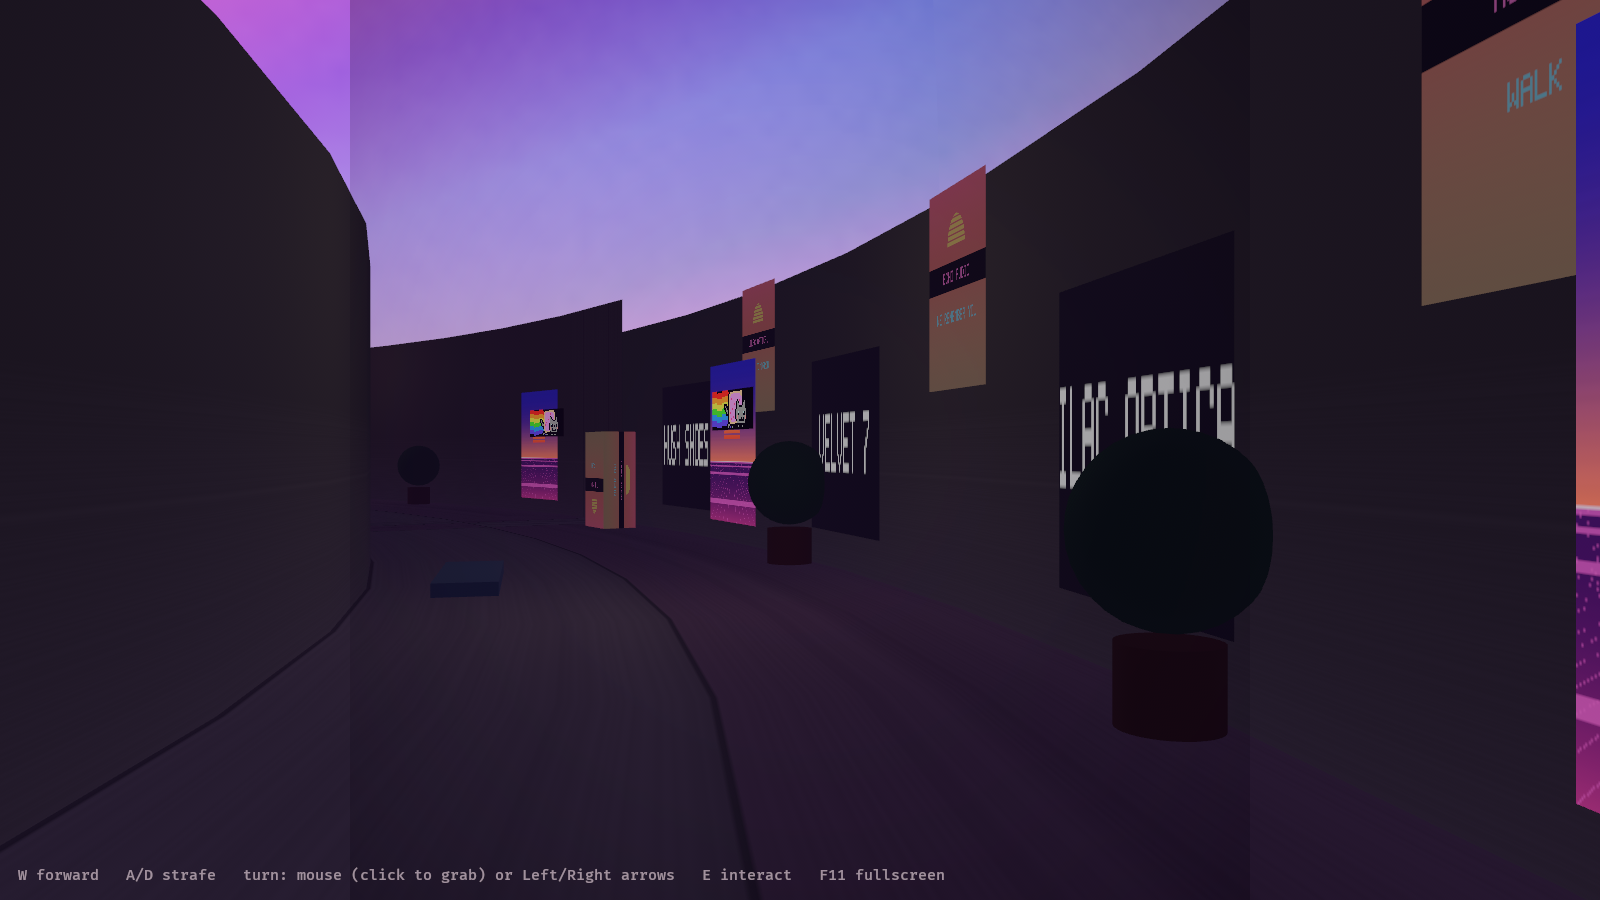
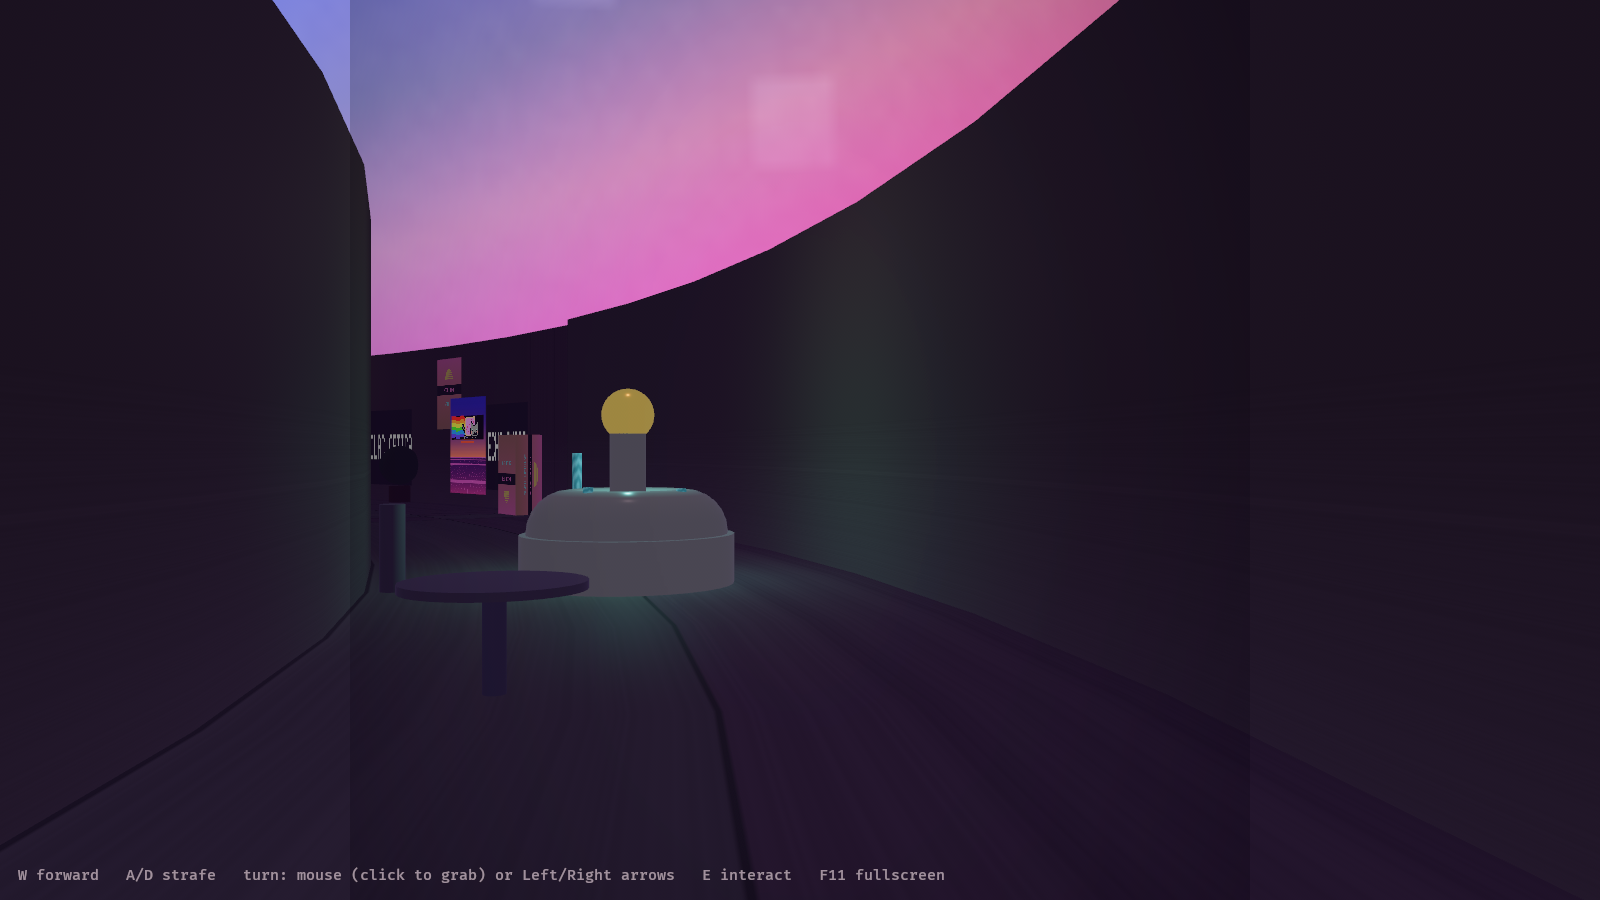
vignette: aspect-corrected so iso-darkness contours are circles on screen
Circular gradient texture stretched onto a 16:9 UI node produced
elliptical arcs that read as a panel edge floating in the FOV.
vignette(aspect) now generates in the node's screen metric, and
vignette_fit regenerates it on window resize. Retake all three
screenshots at 1600x900 via headless shot mode.

Changed region(s): [[0.125, 0.0, 0.7812, 0.6844], [0.875, 0.0, 1.0, 0.9022], [0.6562, 0.4044, 0.7812, 0.56]]

diff --git a/src/texturegen.rs b/src/texturegen.rs
@@ -414,23 +414,24 @@ pub fn nyancat() -> Rgba {
 }
 
 // ---- radial vignette: gentle darkening over the WHOLE frame ----
-// an inner fully-transparent plateau made the clear/dark boundary read as a
-// soft square floating in the FOV; instead ramp smoothly from a faint
-// center tint to a moderate corner darkening, normalized so corners hit max
-pub fn vignette() -> Rgba {
+// aspect-corrected so iso-darkness contours are CIRCLES on screen: a
+// circular texture stretched onto a 16:9 node produces elliptical arcs
+// that read as a panel edge floating in the FOV. ramp: 0% at center,
+// ~17% at edge midpoints, ~41% at corners (alpha = a * 110), no plateau.
+pub fn vignette(aspect: f32) -> Rgba {
     let w = 256u32;
     let h = 256u32;
     let mut b = new_buf(w, h, [0, 0, 0, 0]);
-    let max_d = (2.0f32).sqrt();
+    let a = aspect.max(0.01);
+    // corner distance in this metric, so corners always land on ramp max
+    let max_d = (a * a + 1.0).sqrt();
     for y in 0..h {
         for x in 0..w {
-            let dx = (x as f32 - w as f32 / 2.0) / (w as f32 / 2.0);
+            let dx = (x as f32 - w as f32 / 2.0) / (w as f32 / 2.0) * a;
             let dy = (y as f32 - h as f32 / 2.0) / (h as f32 / 2.0);
             let d = ((dx * dx + dy * dy).sqrt() / max_d).min(1.0);
-            // smooth full-frame ramp: 0% at center, ~19% at edge midpoints,
-            // ~43% at corners (alpha = a * 110)
-            let a = d * d * (0.55 + 0.45 * d);
-            put(&mut b, w, x, y, [10, 4, 18, (a * 110.0) as u8]);
+            let t = d * d * (0.55 + 0.45 * d);
+            put(&mut b, w, x, y, [10, 4, 18, (t * 110.0) as u8]);
         }
     }
     b
@@ -577,7 +578,7 @@ mod tests {
         assert_eq!(sign_tex(1, "MOON MART").len(), 256 * 64 * 4);
         assert_eq!(brick(1).len(), 256 * 256 * 4);
         assert_eq!(nyancat().len(), 120 * 40 * 4);
-        assert_eq!(vignette().len(), 256 * 256 * 4);
+        assert_eq!(vignette(16.0 / 9.0).len(), 256 * 256 * 4);
         assert_eq!(water(1).len(), 128 * 128 * 4);
     }
 
@@ -612,6 +613,23 @@ mod tests {
             top += lum(x, 0);
         }
         assert!(bot > top * 4, "vortex {bot} vs zenith {top}");
+    }
+
+    #[test]
+    fn vignette_circular_on_screen() {
+        // stretched to a 1600x900 window, two texels whose screen-space
+        // offsets from center have equal pixel distance must share alpha;
+        // iso-alpha ellipses are what read as a floating panel edge
+        let b = vignette(16.0 / 9.0);
+        let a = |x: u32, y: u32| -> i32 {
+            b[((y * 256 + x) * 4 + 3) as usize] as i32
+        };
+        // r=300px along -x, and r=300px along the +45 deg diagonal
+        let ax = a(80, 128); // screen (-300, 0)
+        let bx = a(162, 188); // screen (+212, +212)
+        assert!((ax - bx).abs() <= 2, "iso-radius alphas differ: {ax} vs {bx}");
+        assert_eq!(a(128, 128), 0, "center must be clear");
+        assert!(a(0, 0) >= 105, "corner must reach ramp max, got {}", a(0, 0));
     }
 
 }

diff --git a/src/app.rs b/src/app.rs
@@ -443,7 +443,7 @@ fn setup_dream(
 }
 
 fn spawn_ui_root(commands: &mut Commands, images: &mut ResMut<Assets<Image>>) {
-    let vig = world::tex_rgba(images, 256, 256, texturegen::vignette(), true);
+    let vig = world::tex_rgba(images, 256, 256, texturegen::vignette(16.0 / 9.0), true);
     commands
         .spawn(Node {
             position_type: PositionType::Absolute,
@@ -459,6 +459,7 @@ fn spawn_ui_root(commands: &mut Commands, images: &mut ResMut<Assets<Image>>) {
                     image: vig,
                     ..default()
                 },
+                VignetteNode,
                 Node {
                     position_type: PositionType::Absolute,
                     width: Val::Percent(100.0),
@@ -546,6 +547,31 @@ fn spawn_ui_root(commands: &mut Commands, images: &mut ResMut<Assets<Image>>) {
                 TextColor(Color::srgba(1.0, 0.9, 0.97, 0.35)),
             ));
         });
+}
+
+// keep the vignette circular on screen: regenerate its gradient texture
+// with the current window aspect whenever the window resizes, so no
+// elliptical iso-darkness arc can read as a panel edge in the FOV
+fn vignette_fit(
+    windows: Query<&Window, With<PrimaryWindow>>,
+    mut images: ResMut<Assets<Image>>,
+    mut vig: Query<&mut ImageNode, With<VignetteNode>>,
+    mut last: Local<f32>,
+) {
+    let Ok(win) = windows.single() else { return };
+    let h = win.height();
+    if h <= 1.0 {
+        return;
+    }
+    let aspect = win.width() / h;
+    if (aspect - *last).abs() < 0.01 {
+        return;
+    }
+    *last = aspect;
+    let tex = world::tex_rgba(&mut images, 256, 256, texturegen::vignette(aspect), true);
+    for mut node in &mut vig {
+        node.image = tex.clone();
+    }
 }
 
 /// build/rebuild the world when NewDream is pending
@@ -1098,6 +1124,8 @@ fn fade_apply(run: Res<Run>, mut q: Query<&mut BackgroundColor, With<FadeNode>>)
 
 #[derive(Component)]
 struct FadeNode;
+#[derive(Component)]
+struct VignetteNode;
 
 // ---------------------------------------------------------------- mutation ----
 
@@ -1552,6 +1580,7 @@ pub fn build(app: &mut App) {
     app.add_systems(Update, cursor_ctrl.run_if(resource_exists::<Run>));
     app.add_systems(Update, fullscreen_toggle.run_if(resource_exists::<Run>));
     app.add_systems(Update, start_maximized.run_if(resource_exists::<Run>));
+    app.add_systems(Update, vignette_fit.run_if(resource_exists::<Run>));
     app.add_systems(OnEnter(GS::Ended), (capture_win2, spawn_ending_ui, clear_hud_on_end));
     // ending screen: Escape quits
     app.add_systems(Update, exit_on_escape.run_if(in_state(GS::Ended)));
